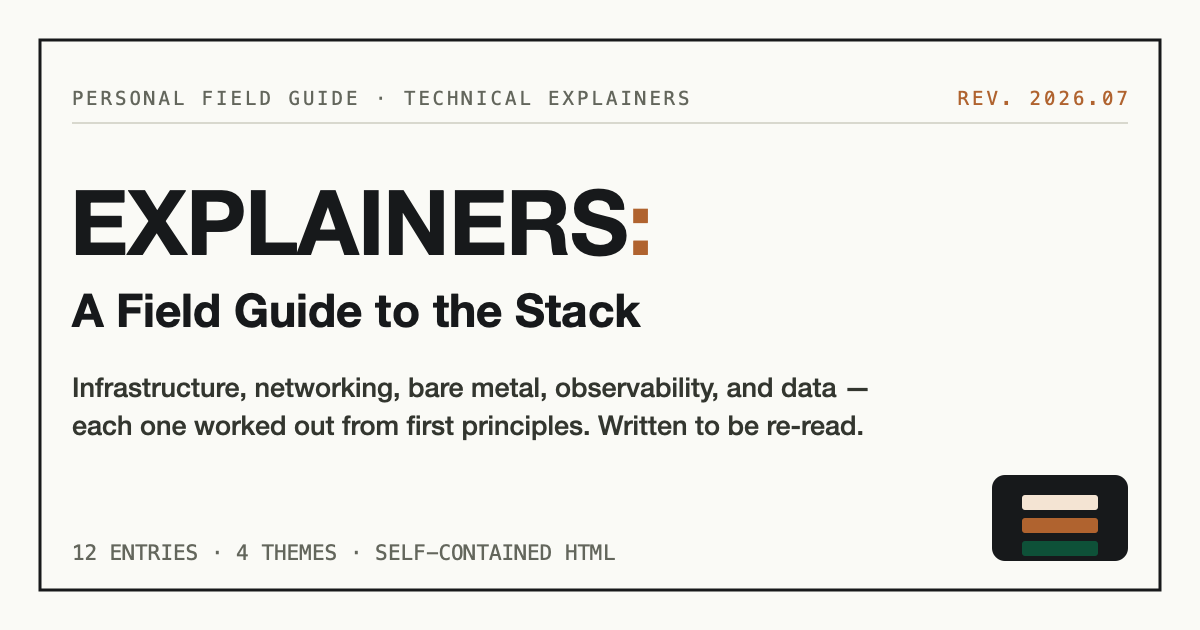
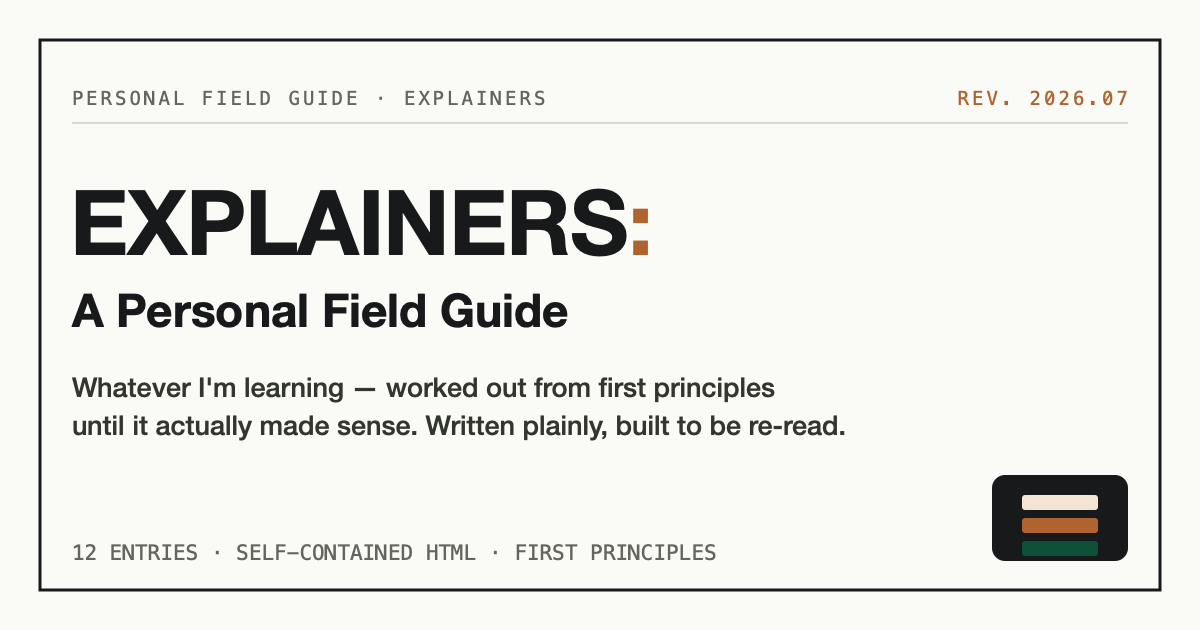
Generalize framing: personal field guide for any topic, not just infra
- Retitle to 'A Personal Field Guide'; open-ended topic framing
- Regenerate social card with topic-agnostic copy
- Update index masthead, spec-box, meta tags, and README blurb
- Per-explainer content and per-page OG unchanged (still topic-specific)

diff --git a/index.html b/index.html
@@ -3,7 +3,7 @@
 <head>
 <meta charset="UTF-8">
 <meta name="viewport" content="width=device-width, initial-scale=1.0">
-<title>Explainers — A Field Guide to the Stack</title>
+<title>Explainers — A Personal Field Guide</title>
 <link rel="preconnect" href="https://fonts.googleapis.com">
 <link href="https://fonts.googleapis.com/css2?family=IBM+Plex+Sans+Condensed:wght@500;600;700&family=IBM+Plex+Sans:wght@400;500;600&family=IBM+Plex+Mono:wght@400;500;600&display=swap" rel="stylesheet">
 <style>
@@ -63,7 +63,7 @@
 </style>
 
   <!-- shipyard:meta -->
-  <meta name="description" content="A personal collection of technical explainers — infrastructure, networking, bare metal, observability, and data systems, explained from first principles.">
+  <meta name="description" content="A personal, open-ended collection of explainers — whatever I&#x27;m learning, worked out from first principles and written plainly to be re-read.">
   <link rel="icon" href="assets/icon.svg" type="image/svg+xml">
   <link rel="icon" href="assets/favicon-32.png" sizes="32x32" type="image/png">
   <link rel="icon" href="assets/favicon-16.png" sizes="16x16" type="image/png">
@@ -71,17 +71,17 @@
   <link rel="manifest" href="assets/site.webmanifest">
   <meta name="theme-color" content="#FAFAF6">
   <meta property="og:type" content="website">
-  <meta property="og:site_name" content="Explainers — A Field Guide to the Stack">
-  <meta property="og:title" content="Explainers — A Field Guide to the Stack">
-  <meta property="og:description" content="A personal collection of technical explainers — infrastructure, networking, bare metal, observability, and data systems, explained from first principles.">
+  <meta property="og:site_name" content="Explainers — A Personal Field Guide">
+  <meta property="og:title" content="Explainers — A Personal Field Guide">
+  <meta property="og:description" content="A personal, open-ended collection of explainers — whatever I&#x27;m learning, worked out from first principles and written plainly to be re-read.">
   <meta property="og:url" content="https://jacob-petterle.github.io/explainers/">
   <meta property="og:image" content="https://jacob-petterle.github.io/explainers/assets/og.png">
   <meta property="og:image:width" content="1200">
   <meta property="og:image:height" content="630">
-  <meta property="og:image:alt" content="Explainers — A Field Guide to the Stack">
+  <meta property="og:image:alt" content="Explainers — A Personal Field Guide">
   <meta name="twitter:card" content="summary_large_image">
-  <meta name="twitter:title" content="Explainers — A Field Guide to the Stack">
-  <meta name="twitter:description" content="A personal collection of technical explainers — infrastructure, networking, bare metal, observability, and data systems, explained from first principles.">
+  <meta name="twitter:title" content="Explainers — A Personal Field Guide">
+  <meta name="twitter:description" content="A personal, open-ended collection of explainers — whatever I&#x27;m learning, worked out from first principles and written plainly to be re-read.">
   <meta name="twitter:image" content="https://jacob-petterle.github.io/explainers/assets/og.png">
   <!-- shipyard:meta -->
 </head>
@@ -89,20 +89,20 @@
 <div class="sheet">
   <header>
     <div class="doc-line">
-      <span>Personal Field Guide &middot; Technical Explainers</span>
+      <span>Personal Field Guide &middot; Explainers</span>
       <span class="std">Maintained by Jacob Petterle</span>
       <span>Rev. 2026.07</span>
     </div>
     <div class="masthead">
       <div>
-        <h1>EXPLAINERS<span class="amp">:</span> A FIELD GUIDE TO THE STACK</h1>
-        <p class="subtitle">A growing collection of technical explainers — infrastructure, networking, bare metal, observability, and data systems — each one worked out from first principles until it actually made sense. Written to be re-read.</p>
+        <h1>EXPLAINERS<span class="amp">:</span> A PERSONAL FIELD GUIDE</h1>
+        <p class="subtitle">A growing collection of explainers — whatever I'm learning, worked out from first principles until it actually made sense. Written plainly, and built to be re-read. Right now it leans infrastructure, but the shelf is open-ended.</p>
       </div>
       <div class="spec-box" aria-label="Collection reference">
         <div><span class="k">Format</span><b>self-contained HTML</b></div>
         <div><span class="k">Entries</span><b>12 &amp; counting</b></div>
-        <div><span class="k">Themes</span><b>4</b></div>
-        <div><span class="k">Depth</span><b>first-principles</b></div>
+        <div><span class="k">Topics</span><b>open-ended</b></div>
+        <div><span class="k">Approach</span><b>first-principles</b></div>
       </div>
     </div>
   </header>

diff --git a/bmc-redfish-explainer.html b/bmc-redfish-explainer.html
@@ -246,7 +246,7 @@
   <link rel="manifest" href="assets/site.webmanifest">
   <meta name="theme-color" content="#FAFAF6">
   <meta property="og:type" content="website">
-  <meta property="og:site_name" content="Explainers — A Field Guide to the Stack">
+  <meta property="og:site_name" content="Explainers — A Personal Field Guide">
   <meta property="og:title" content="BMC &amp; Redfish — Technical Explainer">
   <meta property="og:description" content="The tiny always-on computer inside every server — and the modern REST API used to command entire fleets of them.">
   <meta property="og:url" content="https://jacob-petterle.github.io/explainers/bmc-redfish-explainer.html">

diff --git a/fleet-management-explainer.html b/fleet-management-explainer.html
@@ -118,7 +118,7 @@
   <link rel="manifest" href="assets/site.webmanifest">
   <meta name="theme-color" content="#FAFAF6">
   <meta property="og:type" content="website">
-  <meta property="og:site_name" content="Explainers — A Field Guide to the Stack">
+  <meta property="og:site_name" content="Explainers — A Personal Field Guide">
   <meta property="og:title" content="Fleet Management — Ansible, Ironic &amp; the Unified View">
   <meta property="og:description" content="Redfish gives every server the same API. These are the tools that stand on top of it — and the honest answer to &quot;can I see my whole fleet in one place?&quot;">
   <meta property="og:url" content="https://jacob-petterle.github.io/explainers/fleet-management-explainer.html">

diff --git a/grafana-explainer.html b/grafana-explainer.html
@@ -182,7 +182,7 @@
   <link rel="manifest" href="assets/site.webmanifest">
   <meta name="theme-color" content="#FAFAF6">
   <meta property="og:type" content="website">
-  <meta property="og:site_name" content="Explainers — A Field Guide to the Stack">
+  <meta property="og:site_name" content="Explainers — A Personal Field Guide">
   <meta property="og:title" content="Grafana — One Pane, Many Truths">
   <meta property="og:description" content="The open-source glass over your infrastructure: it doesn&#x27;t store your data — it queries every system where it lives and composes the answers into dashboards, alerts, and (yes) custom UIs.">
   <meta property="og:url" content="https://jacob-petterle.github.io/explainers/grafana-explainer.html">

diff --git a/hedgehog-fabric-explainer.html b/hedgehog-fabric-explainer.html
@@ -218,7 +218,7 @@
   <link rel="manifest" href="assets/site.webmanifest">
   <meta name="theme-color" content="#FAFAF6">
   <meta property="og:type" content="website">
-  <meta property="og:site_name" content="Explainers — A Field Guide to the Stack">
+  <meta property="og:site_name" content="Explainers — A Personal Field Guide">
   <meta property="og:title" content="Hedgehog Open Network Fabric — Technical Explainer">
   <meta property="og:description" content="An open-source Kubernetes operator that turns a pile of whitebox SONiC switches into a cloud-style network — VPCs, tenant isolation, and zero-touch operations for AI clusters on hardware you own.">
   <meta property="og:url" content="https://jacob-petterle.github.io/explainers/hedgehog-fabric-explainer.html">

diff --git a/hedgehog-tenant-isolation.html b/hedgehog-tenant-isolation.html
@@ -216,7 +216,7 @@
   <link rel="manifest" href="assets/site.webmanifest">
   <meta name="theme-color" content="#FAFAF6">
   <meta property="og:type" content="website">
-  <meta property="og:site_name" content="Explainers — A Field Guide to the Stack">
+  <meta property="og:site_name" content="Explainers — A Personal Field Guide">
   <meta property="og:title" content="Hedgehog &amp; Tenant Isolation — Technical Explainer">
   <meta property="og:description" content="How a Kubernetes YAML file becomes a hardware-enforced private network — multi-tenancy for bare-metal clouds, where you can&#x27;t trust a single byte of software on the tenant&#x27;s server.">
   <meta property="og:url" content="https://jacob-petterle.github.io/explainers/hedgehog-tenant-isolation.html">

diff --git a/k8s-and-the-packet.html b/k8s-and-the-packet.html
@@ -213,7 +213,7 @@
   <link rel="manifest" href="assets/site.webmanifest">
   <meta name="theme-color" content="#FAFAF6">
   <meta property="og:type" content="website">
-  <meta property="og:site_name" content="Explainers — A Field Guide to the Stack">
+  <meta property="og:site_name" content="Explainers — A Personal Field Guide">
   <meta property="og:title" content="K8s &amp; the Packet — Technical Explainer">
   <meta property="og:description" content="Kubernetes never touches your traffic. It programs the machines that do. Once you see that, &quot;does bare metal route through Kubernetes?&quot; answers itself.">
   <meta property="og:url" content="https://jacob-petterle.github.io/explainers/k8s-and-the-packet.html">

diff --git a/kafka-iceberg-explainer.html b/kafka-iceberg-explainer.html
@@ -154,7 +154,7 @@
   <link rel="manifest" href="assets/site.webmanifest">
   <meta name="theme-color" content="#FAFAF6">
   <meta property="og:type" content="website">
-  <meta property="og:site_name" content="Explainers — A Field Guide to the Stack">
+  <meta property="og:site_name" content="Explainers — A Personal Field Guide">
   <meta property="og:title" content="Kafka + Iceberg — The Memory of the Fleet">
   <meta property="og:description" content="Hot systems keep weeks; the lakehouse keeps years. Kafka is the conveyor belt that never drops anything; Iceberg turns plain files in object storage into real, queryable tables.">
   <meta property="og:url" content="https://jacob-petterle.github.io/explainers/kafka-iceberg-explainer.html">

diff --git a/metal3-explainer.html b/metal3-explainer.html
@@ -182,7 +182,7 @@
   <link rel="manifest" href="assets/site.webmanifest">
   <meta name="theme-color" content="#FAFAF6">
   <meta property="og:type" content="website">
-  <meta property="og:site_name" content="Explainers — A Field Guide to the Stack">
+  <meta property="og:site_name" content="Explainers — A Personal Field Guide">
   <meta property="og:title" content="Metal³ — Bare Metal, the Kubernetes Way">
   <meta property="og:description" content="&quot;Metal Kubed.&quot; Physical servers become Kubernetes resources: kubectl apply a YAML file, and a real machine in a real rack powers on, wipes itself, and installs your image.">
   <meta property="og:url" content="https://jacob-petterle.github.io/explainers/metal3-explainer.html">

diff --git a/netbox-explainer.html b/netbox-explainer.html
@@ -158,7 +158,7 @@
   <link rel="manifest" href="assets/site.webmanifest">
   <meta name="theme-color" content="#FAFAF6">
   <meta property="og:type" content="website">
-  <meta property="og:site_name" content="Explainers — A Field Guide to the Stack">
+  <meta property="og:site_name" content="Explainers — A Personal Field Guide">
   <meta property="og:title" content="NetBox — The Source of Truth">
   <meta property="og:description" content="The database of what your infrastructure is supposed to look like. It never touches a machine — and that&#x27;s exactly why everything else depends on it.">
   <meta property="og:url" content="https://jacob-petterle.github.io/explainers/netbox-explainer.html">

diff --git a/prometheus-explainer.html b/prometheus-explainer.html
@@ -156,7 +156,7 @@
   <link rel="manifest" href="assets/site.webmanifest">
   <meta name="theme-color" content="#FAFAF6">
   <meta property="og:type" content="website">
-  <meta property="og:site_name" content="Explainers — A Field Guide to the Stack">
+  <meta property="og:site_name" content="Explainers — A Personal Field Guide">
   <meta property="og:title" content="Prometheus — The Heartbeat Recorder">
   <meta property="og:description" content="The metrics engine of modern infrastructure: it goes out, asks every system &quot;how are you?&quot; on a schedule, remembers the answers as time series, and raises the alarm when they go wrong.">
   <meta property="og:url" content="https://jacob-petterle.github.io/explainers/prometheus-explainer.html">

diff --git a/roce-and-the-switch.html b/roce-and-the-switch.html
@@ -213,7 +213,7 @@
   <link rel="manifest" href="assets/site.webmanifest">
   <meta name="theme-color" content="#FAFAF6">
   <meta property="og:type" content="website">
-  <meta property="og:site_name" content="Explainers — A Field Guide to the Stack">
+  <meta property="og:site_name" content="Explainers — A Personal Field Guide">
   <meta property="og:title" content="RoCE &amp; the Switch — Technical Explainer">
   <meta property="og:description" content="How GPUs read each other&#x27;s memory straight over Ethernet — and what the switch in the middle is actually doing (spoiler: it is not &quot;transparent&quot;).">
   <meta property="og:url" content="https://jacob-petterle.github.io/explainers/roce-and-the-switch.html">